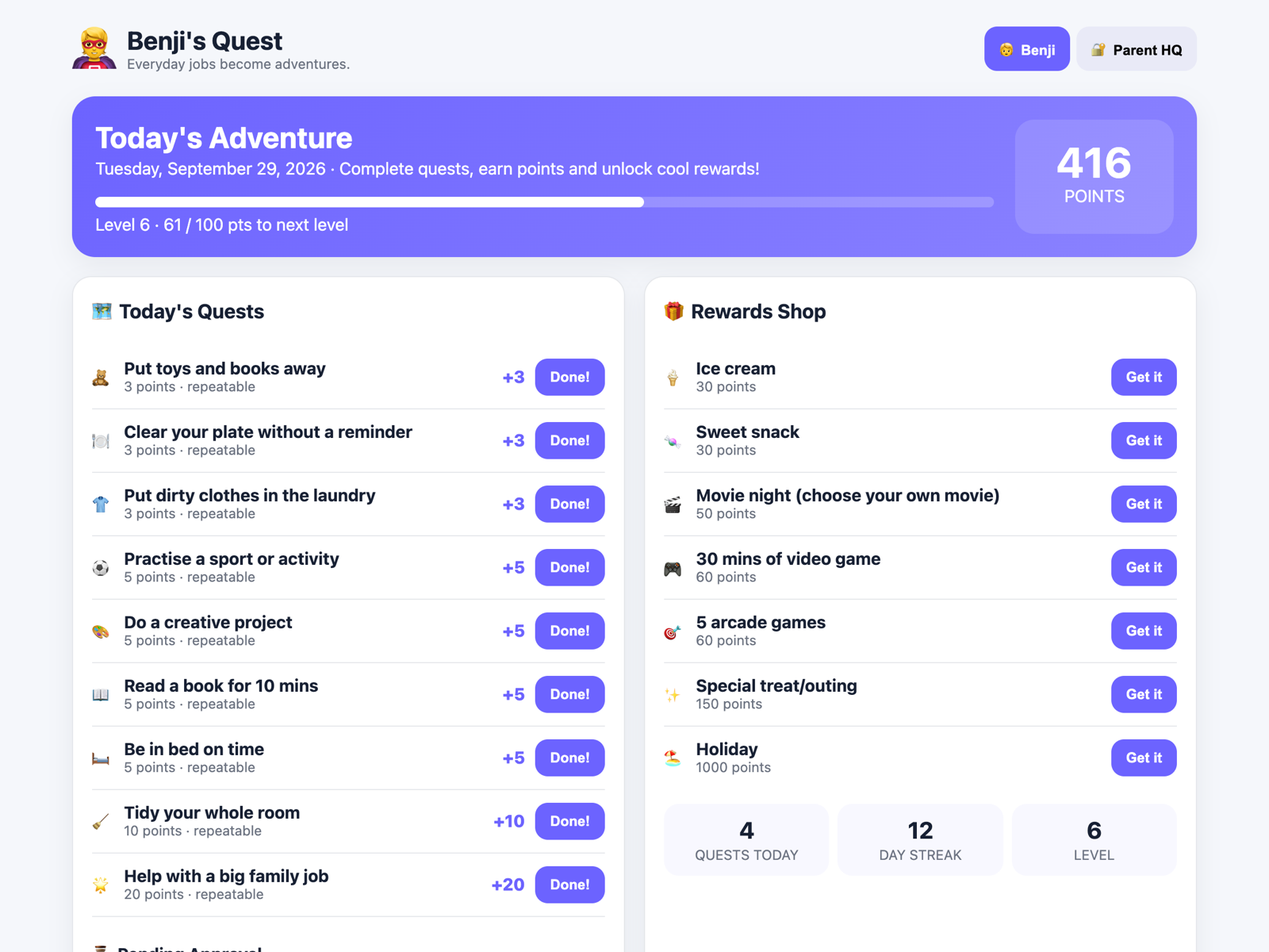
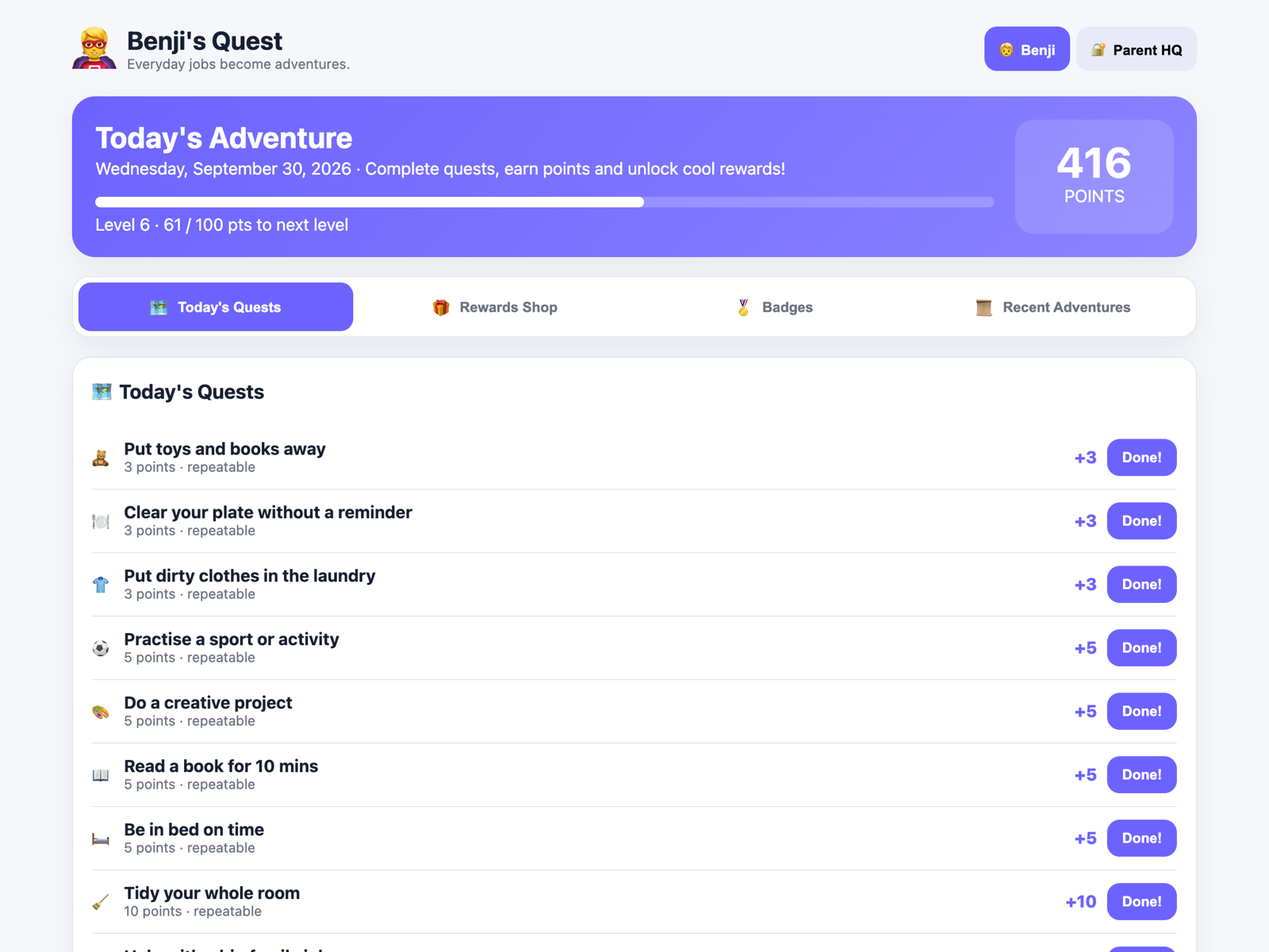
Split Parent HQ and Benji's page into tabs
Parent HQ shows one section at a time and opens on Approvals, the most
used task. Approvals gets a pending-count badge, an Approve all button and
a notice when approval is off. Benji's page gets the same tab bar and opens
on Today's Quests. The banner is compact in Parent HQ and on phones.
README screenshots updated to the new layout.

diff --git a/public/index.html b/public/index.html
@@ -1,16 +1,9 @@
 <!doctype html><html><head><meta charset="utf-8"><meta name="viewport" content="width=device-width,initial-scale=1,viewport-fit=cover"><meta name="theme-color" content="#6c63ff"><title>Benji's Quest</title><link rel="manifest" href="/manifest.webmanifest"><style>
-:root{--bg:#f5f7fb;--card:#fff;--ink:#172033;--muted:#6b7280;--line:#e5e7eb;--accent:#6c63ff;--good:#16a34a;--bad:#dc2626;--gold:#f59e0b;--shadow:0 8px 24px #17203312}*{box-sizing:border-box}body{margin:0;background:var(--bg);color:var(--ink);font-family:system-ui,-apple-system,Segoe UI,sans-serif}.app{max-width:1100px;margin:auto;padding:18px}header{display:flex;justify-content:space-between;align-items:center;gap:12px;margin-bottom:18px}.brand{display:flex;gap:10px;align-items:center}.logo{font-size:42px}.brand h1{margin:0;font-size:24px}.muted{color:var(--muted);font-size:13px}.tabs,.subtabs{display:flex;gap:6px}.tab,.subtab,button{border:0;border-radius:12px;padding:10px 14px;font-weight:700;cursor:pointer}.tab{background:#e9eaf7}.tab.active,.primary{background:var(--accent);color:#fff}.hero{background:linear-gradient(135deg,#6c63ff,#8b83ff);color:#fff;border-radius:22px;padding:22px;display:grid;grid-template-columns:1fr auto;gap:20px;box-shadow:var(--shadow);margin-bottom:18px}.hero h2{margin:0 0 4px;font-size:28px}.score{background:#ffffff22;border-radius:18px;padding:16px 24px;text-align:center;min-width:150px}.score strong{display:block;font-size:40px}.progress{height:10px;background:#ffffff35;border-radius:10px;margin:18px 0 7px;overflow:hidden}.progress i{display:block;height:100%;background:#fff;border-radius:10px}.grid{display:grid;grid-template-columns:1fr 1fr;gap:18px}.card{background:var(--card);border:1px solid var(--line);border-radius:18px;padding:18px;box-shadow:var(--shadow);margin-bottom:18px}.card h3{margin-top:0}.item,.adminitem,.detail{display:flex;align-items:center;gap:10px;padding:12px 0;border-bottom:1px solid var(--line)}.item:last-child,.adminitem:last-child{border-bottom:0}.item .grow,.adminitem .grow{flex:1}.item button{white-space:nowrap}.pill{font-weight:800;color:var(--accent)}.danger{background:#fee2e2;color:#991b1b}.good{color:var(--good)}.bad{color:var(--bad)}.stats{display:grid;grid-template-columns:repeat(3,1fr);gap:8px;margin-top:14px}.stat,.metric{background:#f8f8ff;border-radius:14px;padding:12px;text-align:center}.stat b,.metric b{display:block;font-size:22px}.empty{text-align:center;color:var(--muted);padding:18px}.hidden{display:none!important}input,select{width:100%;padding:10px;border:1px solid var(--line);border-radius:10px;margin:5px 0 10px;background:#fff}label{font-size:12px;font-weight:700}.formgrid{display:grid;grid-template-columns:2fr 1fr 1fr;gap:8px}.switch{width:52px;height:30px;border-radius:20px;background:#d1d5db;padding:3px}.switch i{display:block;width:24px;height:24px;border-radius:50%;background:#fff;transition:.2s}.switch.on{background:var(--accent)}.switch.on i{transform:translateX(22px)}.subtab{background:#eee}.subtab.active{background:var(--ink);color:#fff}.calendar{display:grid;grid-template-columns:repeat(7,1fr);gap:5px}.dow{text-align:center;font-size:11px;font-weight:800;color:var(--muted);padding:4px}.day{background:#fafafa;border:1px solid var(--line);min-height:72px;padding:6px;text-align:left}.day.today{outline:2px solid var(--accent)}.day.selected{background:#eef}.daynum{font-weight:800}.earn{color:var(--good);font-size:11px}.deduct{color:var(--bad);font-size:11px}.daynet{font-weight:800;font-size:11px}.metrics{display:grid;grid-template-columns:repeat(4,1fr);gap:8px}.barrow{display:grid;grid-template-columns:42px 1fr 45px;gap:8px;align-items:center;margin:6px 0;font-size:12px}.bar{height:12px;background:#eee;border-radius:10px;overflow:hidden}.bar i{display:block;height:100%;background:var(--accent)}.badgegrid{display:grid;grid-template-columns:repeat(auto-fit,minmax(150px,1fr));gap:10px}.badge{border:1px solid var(--line);border-radius:15px;padding:14px;text-align:center}.badge.locked{opacity:.4;filter:grayscale(1)}.badge .emoji{font-size:30px}.row{display:flex;justify-content:space-between;align-items:center;gap:10px}.toast{position:fixed;bottom:18px;left:50%;transform:translateX(-50%);background:#172033;color:#fff;padding:12px 18px;border-radius:12px;display:none;z-index:5}.toast.show{display:block}@media(max-width:760px){.grid,.hero{grid-template-columns:1fr}.score{min-width:0}.formgrid,.metrics{grid-template-columns:1fr 1fr}.app{padding:12px}}@media(max-width:480px){.formgrid,.metrics{grid-template-columns:1fr}.header{align-items:flex-start}.calendar{gap:2px}.day{min-height:58px;padding:4px}}
+:root{--bg:#f5f7fb;--card:#fff;--ink:#172033;--muted:#6b7280;--line:#e5e7eb;--accent:#6c63ff;--good:#16a34a;--bad:#dc2626;--gold:#f59e0b;--shadow:0 8px 24px #17203312}*{box-sizing:border-box}body{margin:0;background:var(--bg);color:var(--ink);font-family:system-ui,-apple-system,Segoe UI,sans-serif}.app{max-width:1100px;margin:auto;padding:18px}header{display:flex;justify-content:space-between;align-items:center;gap:12px;margin-bottom:18px}.brand{display:flex;gap:10px;align-items:center}.logo{font-size:42px}.brand h1{margin:0;font-size:24px}.muted{color:var(--muted);font-size:13px}.tabs,.subtabs{display:flex;gap:6px}.tab,.subtab,button{border:0;border-radius:12px;padding:10px 14px;font-weight:700;cursor:pointer}.tab{background:#e9eaf7}.tab.active,.primary{background:var(--accent);color:#fff}.hero{background:linear-gradient(135deg,#6c63ff,#8b83ff);color:#fff;border-radius:22px;padding:22px;display:grid;grid-template-columns:1fr auto;gap:20px;box-shadow:var(--shadow);margin-bottom:18px}.hero h2{margin:0 0 4px;font-size:28px}.score{background:#ffffff22;border-radius:18px;padding:16px 24px;text-align:center;min-width:150px}.score strong{display:block;font-size:40px}.progress{height:10px;background:#ffffff35;border-radius:10px;margin:18px 0 7px;overflow:hidden}.progress i{display:block;height:100%;background:#fff;border-radius:10px}.grid{display:grid;grid-template-columns:1fr 1fr;gap:18px}.card{background:var(--card);border:1px solid var(--line);border-radius:18px;padding:18px;box-shadow:var(--shadow);margin-bottom:18px}.card h3{margin-top:0}.item,.adminitem,.detail{display:flex;align-items:center;gap:10px;padding:12px 0;border-bottom:1px solid var(--line)}.item:last-child,.adminitem:last-child{border-bottom:0}.item .grow,.adminitem .grow,.detail .grow{flex:1}.item button{white-space:nowrap}.pill{font-weight:800;color:var(--accent)}.danger{background:#fee2e2;color:#991b1b}.good{color:var(--good)}.bad{color:var(--bad)}.stats{display:grid;grid-template-columns:repeat(3,1fr);gap:8px;margin-top:14px}.stat,.metric{background:#f8f8ff;border-radius:14px;padding:12px;text-align:center}.stat b,.metric b{display:block;font-size:22px}.empty{text-align:center;color:var(--muted);padding:18px}.hidden{display:none!important}input,select{width:100%;padding:10px;border:1px solid var(--line);border-radius:10px;margin:5px 0 10px;background:#fff}label{font-size:12px;font-weight:700}.formgrid{display:grid;grid-template-columns:2fr 1fr 1fr;gap:8px}.switch{width:52px;height:30px;border-radius:20px;background:#d1d5db;padding:3px}.switch i{display:block;width:24px;height:24px;border-radius:50%;background:#fff;transition:.2s}.switch.on{background:var(--accent)}.switch.on i{transform:translateX(22px)}.subtab{background:#eee}.subtab.active{background:var(--ink);color:#fff}.calendar{display:grid;grid-template-columns:repeat(7,1fr);gap:5px}.dow{text-align:center;font-size:11px;font-weight:800;color:var(--muted);padding:4px}.day{background:#fafafa;border:1px solid var(--line);min-height:72px;padding:6px;text-align:left}.day.today{outline:2px solid var(--accent)}.day.selected{background:#eef}.daynum{font-weight:800}.earn{color:var(--good);font-size:11px}.deduct{color:var(--bad);font-size:11px}.daynet{font-weight:800;font-size:11px}.metrics{display:grid;grid-template-columns:repeat(4,1fr);gap:8px}.barrow{display:grid;grid-template-columns:42px 1fr 45px;gap:8px;align-items:center;margin:6px 0;font-size:12px}.bar{height:12px;background:#eee;border-radius:10px;overflow:hidden}.bar i{display:block;height:100%;background:var(--accent)}.badgegrid{display:grid;grid-template-columns:repeat(auto-fit,minmax(150px,1fr));gap:10px}.badge{border:1px solid var(--line);border-radius:15px;padding:14px;text-align:center}.badge.locked{opacity:.4;filter:grayscale(1)}.badge .emoji{font-size:30px}.row{display:flex;justify-content:space-between;align-items:center;gap:10px}.toast{position:fixed;bottom:18px;left:50%;transform:translateX(-50%);background:#172033;color:#fff;padding:12px 18px;border-radius:12px;display:none;z-index:5}.toast.show{display:block}@media(max-width:760px){.grid,.hero{grid-template-columns:1fr}.score{min-width:0}.formgrid,.metrics{grid-template-columns:1fr 1fr}.app{padding:12px}}@media(max-width:480px){.formgrid,.metrics{grid-template-columns:1fr}.header{align-items:flex-start}.calendar{gap:2px}.day{min-height:58px;padding:4px}}
+.sectabs{position:sticky;top:8px;z-index:3;display:flex;gap:4px;background:var(--card);border:1px solid var(--line);border-radius:16px;padding:5px;box-shadow:var(--shadow);margin-bottom:18px}.sectab{flex:1;display:flex;align-items:center;justify-content:center;gap:6px;background:transparent;color:var(--muted);padding:10px 6px;white-space:nowrap}.sectab:hover{background:#f1f0ff;color:var(--ink)}.sectab.active{background:var(--accent);color:#fff}.secicon{font-size:16px}.count{background:var(--bad);color:#fff;border-radius:999px;font-size:11px;min-width:20px;padding:2px 6px;line-height:1.3}.notice{background:#fff7e6;border:1px solid #fde3a7;border-radius:12px;padding:10px 12px;margin-top:12px;font-size:13px;display:flex;align-items:center;justify-content:space-between;gap:10px}.notice button{background:#fff;border:1px solid #fde3a7;padding:6px 10px;font-size:12px}.secpanel .adminitem button{min-width:84px}@media(max-width:760px){.sectabs{display:grid;grid-template-columns:repeat(4,1fr);top:4px}.sectab{flex-direction:column;gap:2px;font-size:12px;padding:8px 2px;position:relative;white-space:normal;text-align:center;line-height:1.15}.secicon{font-size:20px}.count{position:absolute;top:3px;right:6px}}body.hq .hero{grid-template-columns:1fr auto;align-items:center;padding:14px 20px;border-radius:18px}body.hq .hero h2{font-size:18px;margin:0}body.hq #heroSub,body.hq .progress{display:none}body.hq #levelText{font-size:13px;opacity:.9;margin-top:2px}body.hq .score{padding:8px 16px;min-width:0;display:flex;align-items:baseline;gap:6px}body.hq .score strong{font-size:24px}body.hq .score span{font-size:12px}@media(max-width:760px){.hero{grid-template-columns:1fr auto;align-items:center;gap:12px;padding:16px}.hero h2{font-size:22px}#heroSub{font-size:13px}.progress{margin:10px 0 5px}.score{padding:10px 12px}.score strong{font-size:28px}.score span{font-size:11px}}
 body.locked .tabs,body.locked .hero,body.locked #kidView,body.locked #parentView,body:not(.locked) #lockView{display:none!important}#lockView{max-width:420px;margin:40px auto;text-align:center}
 </style></head><body><div class="app"><header><div class="brand"><div class="logo">🦸</div><div><h1>Benji's Quest</h1><div class="muted">Everyday jobs become adventures.</div></div></div><div class="tabs"><button class="tab active" id="kidTab">🧒 Benji</button><button class="tab" id="parentTab">🔐 Parent HQ</button></div></header>
 <section id="lockView" class="card"><div class="logo">🔒</div><h3>This device is locked</h3><p class="muted">Ask a parent to enter the family passcode.</p><form id="unlockForm"><input id="passcode" type="password" autocomplete="current-password" aria-label="Family passcode" required><button class="primary">Unlock</button></form></section>
 <section class="hero"><div><h2 id="heroTitle">Today's Adventure</h2><div id="heroSub">Complete quests, earn points and unlock cool rewards!</div><div class="progress"><i id="levelBar"></i></div><div id="levelText">Level 1 · 0 / 100 pts to next level</div></div><div class="score"><strong id="points">0</strong><span>POINTS</span></div></section>
-<div id="kidView"><div class="grid"><section class="card"><h3>🗺 Today's Quests</h3><div id="chores"></div></section><section class="card"><h3>🎁 Rewards Shop</h3><div id="rewards"></div><div class="stats"><div class="stat"><b id="doneToday">0</b><span class="muted">QUESTS TODAY</span></div><div class="stat"><b id="streak">0</b><span class="muted">DAY STREAK</span></div><div class="stat"><b id="level">1</b><span class="muted">LEVEL</span></div></div></section></div><section class="card"><h3>🏅 Badges</h3><div id="badges" class="badgegrid"></div></section><section class="card"><h3>📜 Recent Adventures</h3><div id="history"></div></section></div>
-<div id="parentView" class="hidden"><section class="card"><h3>📊 Quest Dashboard</h3><div class="subtabs"><button class="subtab active" data-period="week">Weekly</button><button class="subtab" data-period="month">Monthly</button><button class="subtab" data-period="year">Yearly</button></div><div id="metrics" class="metrics" style="margin-top:12px"></div><div id="periodChart" style="margin-top:15px"></div></section>
-<section class="card"><div class="row"><h3 style="margin:0">📅 Quest Calendar</h3><div><button id="prevMonth">‹</button><button id="nextMonth">›</button></div></div><h4 id="monthLabel"></h4><div id="calendar" class="calendar"></div><div id="dayDetail" class="hidden" style="margin-top:12px"></div></section>
-<div class="grid"><section class="card"><h3>🧹 Manage Chores</h3><form id="choreForm"><div class="formgrid"><div><label>Name</label><input id="cName" required maxlength="80"></div><div><label>Emoji</label><input id="cEmoji" value="⭐" maxlength="2"></div><div><label>Points</label><input id="cPoints" type="number" min="1" max="1000" value="5"></div></div><button class="primary">Add chore</button></form><hr><div id="adminChores"></div></section>
-<section class="card"><h3>🎁 Manage Rewards</h3><form id="rewardForm"><div class="formgrid"><div><label>Name</label><input id="rName" required maxlength="80"></div><div><label>Emoji</label><input id="rEmoji" value="🎁" maxlength="2"></div><div><label>Cost</label><input id="rCost" type="number" min="1" max="100000" value="30"></div></div><button class="primary">Add reward</button></form><hr><div id="adminRewards"></div></section></div>
-<div class="grid"><section class="card"><h3>⚠ Manage Penalties</h3><form id="penaltyForm"><div class="formgrid"><div><label>Name</label><input id="pName" required maxlength="80"></div><div><label>Emoji</label><input id="pEmoji" value="⚠" maxlength="2"></div><div><label>Points deducted</label><input id="pPoints" type="number" min="1" max="1000" value="5"></div></div><button class="primary">Add penalty</button></form><hr><div id="adminPenalties"></div></section>
-<section class="card"><h3>🏅 Manage Badges</h3><form id="badgeForm"><div class="formgrid"><div><label>Name</label><input id="bName" required maxlength="80"></div><div><label>Emoji</label><input id="bEmoji" value="🏅" maxlength="2"></div><div><label>Target</label><input id="bTarget" type="number" min="1" max="1000000" value="100"></div></div><label>Requirement type</label><select id="bType"><option value="points">Total points earned</option><option value="level">Level reached</option><option value="quests">Quests completed</option><option value="chore">Times a particular chore is completed</option></select><label>Description</label><input id="bDesc" maxlength="200" placeholder="e.g. Complete 20 quests"><button class="primary">Add badge</button></form><hr><div id="adminBadges"></div></section></div>
-<section class="card"><h3>⚙ Family Settings</h3><div class="row"><div><b>Require parent approval</b><div class="muted">Completed quests wait here before points are awarded.</div></div><button class="switch" id="approvalToggle"><i></i></button></div><div class="row" style="margin-top:14px"><div><b>Daily screen-time cap</b><div class="muted">Limit screen-time reward minutes per day.</div></div><select id="cap" style="width:150px;margin:0"><option value="0">No cap</option><option value="30">30 min</option><option value="45">45 min</option><option value="60">60 min</option></select></div><div class="row" style="margin-top:14px"><div><b>Lock this device</b><div class="muted">Require the family passcode again on this device.</div></div><button class="danger" id="lockDevice">Lock</button></div><h3 style="margin-top:22px">👀 Pending approvals</h3><div id="pending"></div></section>
-<section class="card"><h3>🔎 Apply Penalty</h3><div id="penaltyButtons"></div></section>
-</div></div><div id="toast" class="toast"></div><script src="/app.js"></script></body></html>
+<div id="kidView"><nav class="sectabs" role="tablist" aria-label="Benji's sections"><button class="sectab" role="tab" data-act="benjiTab" data-key="quests"><span class="secicon">🗺</span><span>Today's Quests</span></button><button class="sectab" role="tab" data-act="benjiTab" data-key="shop"><span class="secicon">🎁</span><span>Rewards Shop</span></button><button class="sectab" role="tab" data-act="benjiTab" data-key="badges"><span class="secicon">🏅</span><span>Badges</span></button><button class="sectab" role="tab" data-act="benjiTab" data-key="history"><span class="secicon">📜</span><span>Recent Adventures</span></button></nav><section class="card secpanel" data-panel="quests"><h3>🗺 Today's Quests</h3><div id="chores"></div><div class="stats"><div class="stat"><b id="doneToday">0</b><span class="muted">QUESTS TODAY</span></div><div class="stat"><b id="streak">0</b><span class="muted">DAY STREAK</span></div><div class="stat"><b id="level">1</b><span class="muted">LEVEL</span></div></div></section><section class="card secpanel" data-panel="shop"><h3>🎁 Rewards Shop</h3><div id="rewards"></div></section><section class="card secpanel" data-panel="badges"><h3>🏅 Badges</h3><div id="badges" class="badgegrid"></div></section><section class="card secpanel" data-panel="history"><h3>📜 Recent Adventures</h3><div id="history"></div></section></div>
+<div id="parentView" class="hidden"><nav class="sectabs" role="tablist" aria-label="Parent HQ sections"><button class="sectab" role="tab" data-act="hqTab" data-key="approvals"><span class="secicon">✅</span><span>Approvals</span><span id="pendingCount" class="count hidden"></span></button><button class="sectab" role="tab" data-act="hqTab" data-key="dashboard"><span class="secicon">📊</span><span>Dashboard</span></button><button class="sectab" role="tab" data-act="hqTab" data-key="calendar"><span class="secicon">📅</span><span>Calendar</span></button><button class="sectab" role="tab" data-act="hqTab" data-key="chores"><span class="secicon">🧹</span><span>Chores</span></button><button class="sectab" role="tab" data-act="hqTab" data-key="rewards"><span class="secicon">🎁</span><span>Rewards</span></button><button class="sectab" role="tab" data-act="hqTab" data-key="penalties"><span class="secicon">⚠</span><span>Penalties</span></button><button class="sectab" role="tab" data-act="hqTab" data-key="badges"><span class="secicon">🏅</span><span>Badges</span></button><button class="sectab" role="tab" data-act="hqTab" data-key="settings"><span class="secicon">⚙</span><span>Settings</span></button></nav><section class="card secpanel" data-panel="approvals"><div class="row"><div><h3 style="margin:0">✅ Approvals</h3><div class="muted">Quests Benji has finished. Approve to award the points.</div></div><button class="primary hidden" id="approveAll" data-act="approveAll">Approve all</button></div><div id="approvalOff" class="notice hidden">Approval is off, so finished quests award points straight away. <button data-act="hqTab" data-key="settings">Change in Settings</button></div><div id="pending" style="margin-top:8px"></div></section><section class="card secpanel" data-panel="dashboard"><h3>📊 Quest Dashboard</h3><div class="subtabs"><button class="subtab active" data-period="week">Weekly</button><button class="subtab" data-period="month">Monthly</button><button class="subtab" data-period="year">Yearly</button></div><div id="metrics" class="metrics" style="margin-top:12px"></div><div id="periodChart" style="margin-top:15px"></div></section><section class="card secpanel" data-panel="calendar"><div class="row"><h3 style="margin:0">📅 Quest Calendar</h3><div><button id="prevMonth">‹</button><button id="nextMonth">›</button></div></div><h4 id="monthLabel"></h4><div id="calendar" class="calendar"></div><div id="dayDetail" class="hidden" style="margin-top:12px"></div></section><section class="card secpanel" data-panel="chores"><h3>🧹 Manage Chores</h3><form id="choreForm"><div class="formgrid"><div><label>Name</label><input id="cName" required maxlength="80"></div><div><label>Emoji</label><input id="cEmoji" value="⭐" maxlength="2"></div><div><label>Points</label><input id="cPoints" type="number" min="1" max="1000" value="5"></div></div><button class="primary">Add chore</button></form><hr><div id="adminChores"></div></section><section class="card secpanel" data-panel="rewards"><h3>🎁 Manage Rewards</h3><form id="rewardForm"><div class="formgrid"><div><label>Name</label><input id="rName" required maxlength="80"></div><div><label>Emoji</label><input id="rEmoji" value="🎁" maxlength="2"></div><div><label>Cost</label><input id="rCost" type="number" min="1" max="100000" value="30"></div></div><button class="primary">Add reward</button></form><hr><div id="adminRewards"></div></section><section class="card secpanel" data-panel="penalties"><h3>⚠ Apply a penalty</h3><p class="muted" style="margin-top:-6px">Tap one to deduct its points.</p><div id="penaltyButtons"></div></section><section class="card secpanel" data-panel="penalties"><h3>⚠ Manage Penalties</h3><form id="penaltyForm"><div class="formgrid"><div><label>Name</label><input id="pName" required maxlength="80"></div><div><label>Emoji</label><input id="pEmoji" value="⚠" maxlength="2"></div><div><label>Points deducted</label><input id="pPoints" type="number" min="1" max="1000" value="5"></div></div><button class="primary">Add penalty</button></form><hr><div id="adminPenalties"></div></section><section class="card secpanel" data-panel="badges"><h3>🏅 Manage Badges</h3><form id="badgeForm"><div class="formgrid"><div><label>Name</label><input id="bName" required maxlength="80"></div><div><label>Emoji</label><input id="bEmoji" value="🏅" maxlength="2"></div><div><label>Target</label><input id="bTarget" type="number" min="1" max="1000000" value="100"></div></div><label>Requirement type</label><select id="bType"><option value="points">Total points earned</option><option value="level">Level reached</option><option value="quests">Quests completed</option><option value="chore">Times a particular chore is completed</option></select><label>Description</label><input id="bDesc" maxlength="200" placeholder="e.g. Complete 20 quests"><button class="primary">Add badge</button></form><hr><div id="adminBadges"></div></section><section class="card secpanel" data-panel="settings"><h3>⚙ Family Settings</h3><div class="row"><div><b>Require parent approval</b><div class="muted">Completed quests wait here before points are awarded.</div></div><button class="switch" id="approvalToggle"><i></i></button></div><div class="row" style="margin-top:14px"><div><b>Daily screen-time cap</b><div class="muted">Limit screen-time reward minutes per day.</div></div><select id="cap" style="width:150px;margin:0"><option value="0">No cap</option><option value="30">30 min</option><option value="45">45 min</option><option value="60">60 min</option></select></div><div class="row" style="margin-top:14px"><div><b>Lock this device</b><div class="muted">Require the family passcode again on this device.</div></div><button class="danger" id="lockDevice">Lock</button></div></section></div></div><div id="toast" class="toast"></div><script src="/app.js"></script></body></html>

diff --git a/public/app.js b/public/app.js
@@ -1,6 +1,6 @@
-let state=null,period='week',calDate=new Date(),selectedDate=null;const $=id=>document.getElementById(id);function toast(t){$('toast').textContent=t;$('toast').classList.add('show');setTimeout(()=>$('toast').classList.remove('show'),2200)}function esc(s){return String(s).replace(/[&<>'"]/g,m=>({'&':'&amp;','<':'&lt;','>':'&gt;',"'":'&#39;','"':'&quot;'}[m]))}function today(){return new Date().toLocaleDateString('en-CA')}async function api(path,body,method){const r=await fetch(path,{method:method||(body?'POST':'GET'),headers:body?{'Content-Type':'application/json'}:undefined,body:body?JSON.stringify(body):undefined});const d=await r.json();if(!r.ok){toast(d.error||'Something went wrong');if(r.status===401)showKid();load();throw Error(d.error)}state=d.state||d;render();return d}async function admin(){await api('/api/admin',{chores:state.chores,rewards:state.rewards,penalties:state.penalties,badges:state.badges},'PUT')}async function settings(body){await api('/api/settings',body,'PUT')}async function load(){try{const r=await fetch('/api/state');if(r.status===401){lock();return}const d=await r.json();state=d.state;document.body.classList.remove('locked');render()}catch(e){toast('Could not connect to cloud')}}function lock(){showKid();document.body.classList.add('locked');$('passcode').focus()}
+let state=null,period='week',tabs={kidView:'quests',parentView:'approvals'},calDate=new Date(),selectedDate=null;const $=id=>document.getElementById(id);function toast(t){$('toast').textContent=t;$('toast').classList.add('show');setTimeout(()=>$('toast').classList.remove('show'),2200)}function esc(s){return String(s).replace(/[&<>'"]/g,m=>({'&':'&amp;','<':'&lt;','>':'&gt;',"'":'&#39;','"':'&quot;'}[m]))}function today(){return new Date().toLocaleDateString('en-CA')}async function api(path,body,method){const r=await fetch(path,{method:method||(body?'POST':'GET'),headers:body?{'Content-Type':'application/json'}:undefined,body:body?JSON.stringify(body):undefined});const d=await r.json();if(!r.ok){toast(d.error||'Something went wrong');if(r.status===401)showKid();load();throw Error(d.error)}state=d.state||d;render();return d}async function admin(){await api('/api/admin',{chores:state.chores,rewards:state.rewards,penalties:state.penalties,badges:state.badges},'PUT')}async function settings(body){await api('/api/settings',body,'PUT')}async function load(){try{const r=await fetch('/api/state');if(r.status===401){lock();return}const d=await r.json();state=d.state;document.body.classList.remove('locked');render()}catch(e){toast('Could not connect to cloud')}}function lock(){showKid();document.body.classList.add('locked');$('passcode').focus()}
 function level(){return Math.max(1,Math.floor(state.totalEarned/100)+1)}function badgeUnlocked(b){if(b.type==='points')return state.totalEarned>=b.target;if(b.type==='level')return level()>=b.target;if(b.type==='quests')return state.history.filter(x=>x.kind==='chore').length+(state.archivedQuests||0)>=b.target;if(b.type==='chore')return state.history.filter(x=>x.kind==='chore'&&x.text===b.choreName).length>=b.target;return false}
-function render(){if(!state)return;$('points').textContent=state.points;const lv=level(),prog=state.totalEarned%100;$('level').textContent=lv;$('levelText').textContent=`Level ${lv} · ${prog} / 100 pts to next level`;$('levelBar').style.width=prog+'%';$('heroTitle').textContent="Today's Adventure";$('heroSub').textContent=`${new Date().toLocaleDateString(undefined,{weekday:'long',day:'numeric',month:'long',year:'numeric'})} · Complete quests, earn points and unlock cool rewards!`;renderKid();renderAdmin();renderSettings();renderPending();renderCalendar();renderDashboard()}
+function render(){if(!state)return;$('points').textContent=state.points;const lv=level(),prog=state.totalEarned%100;$('level').textContent=lv;$('levelText').textContent=`Level ${lv} · ${prog} / 100 pts to next level`;$('levelBar').style.width=prog+'%';$('heroTitle').textContent=document.body.classList.contains('hq')?"Benji's progress":"Today's Adventure";$('heroSub').textContent=`${new Date().toLocaleDateString(undefined,{weekday:'long',day:'numeric',month:'long',year:'numeric'})} · Complete quests, earn points and unlock cool rewards!`;renderKid();renderAdmin();renderSettings();renderPending();renderCalendar();renderDashboard()}
 
 function renderKid(){
   const d=today(),done=state.history.filter(h=>h.kind==='chore'&&h.date===d).length;
@@ -31,16 +31,18 @@ function renderAdmin(){
 }
 
 function renderSettings(){$('approvalToggle').classList.toggle('on',!!state.settings.approval);$('cap').value=state.settings.cap||0}
-function renderPending(){$('pending').innerHTML=state.pending.length?state.pending.map(p=>`<div class="adminitem"><span>${esc(p.emoji)}</span><span class="grow"><b>${esc(p.name)}</b><div class="muted">+${p.points} · ${p.date}</div></span><button class="primary" data-act="approve" data-key="${esc(p.id)}">Approve</button><button class="danger" data-act="reject" data-key="${esc(p.id)}">Reject</button></div>`).join(''):'<div class="empty">Nothing waiting for approval.</div>'}
+function renderPending(){const n=state.pending.length;$('pendingCount').textContent=n;$('pendingCount').classList.toggle('hidden',!n);$('approveAll').classList.toggle('hidden',n<2);$('approvalOff').classList.toggle('hidden',!!state.settings.approval||n>0);$('pending').innerHTML=n?state.pending.map(p=>`<div class="adminitem"><span>${esc(p.emoji)}</span><span class="grow"><b>${esc(p.name)}</b><div class="muted">+${p.points} · ${p.date}</div></span><button class="primary" data-act="approve" data-key="${esc(p.id)}">Approve</button><button class="danger" data-act="reject" data-key="${esc(p.id)}">Reject</button></div>`).join(''):'<div class="empty">🎉 All caught up. Nothing waiting for approval.</div>'}
+// Each view shows one section at a time. Defaults: Today's Quests for Benji, Approvals for Parent HQ (used most).
+function benjiTab(k){tabs.kidView=k;renderTabs()}function hqTab(k){tabs.parentView=k;renderTabs()}function renderTabs(){for(const v in tabs){const k=tabs[v];$(v).querySelectorAll('.sectab').forEach(b=>{const on=b.dataset.key===k;b.classList.toggle('active',on);b.setAttribute('aria-selected',on)});$(v).querySelectorAll('.secpanel').forEach(p=>p.classList.toggle('hidden',p.dataset.panel!==k))}}
 function renderCalendar(){const y=calDate.getFullYear(),m=calDate.getMonth(),first=new Date(y,m,1),start=(first.getDay()+6)%7,days=new Date(y,m+1,0).getDate();$('monthLabel').textContent=calDate.toLocaleString(undefined,{month:'long',year:'numeric'});let html=['Mon','Tue','Wed','Thu','Fri','Sat','Sun'].map(x=>`<div class="dow">${x}</div>`).join('');for(let i=0;i<42;i++){let n=i-start+1;if(n<1||n>days){html+='<div></div>';continue}let dt=new Date(y,m,n),k=dt.toLocaleDateString('en-CA'),arr=state.history.filter(h=>h.date===k),e=arr.filter(h=>h.amount>0).reduce((a,h)=>a+h.amount,0),d=arr.filter(h=>h.amount<0).reduce((a,h)=>a+Math.abs(h.amount),0);html+=`<button class="day ${k===today()?'today':''} ${k===selectedDate?'selected':''}" data-act="selectDay" data-key="${esc(k)}"><div class="daynum">${n}</div>${e?`<div class="earn">+${e}</div>`:''}${d?`<div class="deduct">−${d}</div>`:''}<div class="daynet">${e-d?`${e-d>0?'+':''}${e-d}`:''}</div></button>`}$('calendar').innerHTML=html;renderDay()}
 function selectDay(k){selectedDate=k;renderCalendar()}function renderDay(){const box=$('dayDetail');if(!selectedDate){box.classList.add('hidden');return}const arr=state.history.filter(h=>h.date===selectedDate),e=arr.filter(h=>h.amount>0).reduce((a,h)=>a+h.amount,0),d=arr.filter(h=>h.amount<0).reduce((a,h)=>a+Math.abs(h.amount),0);box.classList.remove('hidden');box.innerHTML=`<b>${new Date(selectedDate+'T12:00:00').toLocaleDateString(undefined,{weekday:'long',day:'numeric',month:'long',year:'numeric'})}</b><div class="muted">+${e} earned · −${d} deducted · ${e-d>=0?'+':''}${e-d} net</div>${arr.map(h=>`<div class="detail"><span class="grow">${esc(h.text)}</span><b class="${h.amount>=0?'good':'bad'}">${h.amount>0?'+':''}${h.amount}</b></div>`).join('')||'<div class="empty">No recorded activity.</div>'}`}
 function renderDashboard(){const now=new Date();let start=new Date(now);if(period==='week'){const day=(now.getDay()+6)%7;start.setDate(now.getDate()-day)}else if(period==='month')start=new Date(now.getFullYear(),now.getMonth(),1);else start=new Date(now.getFullYear(),0,1);const sk=start.toLocaleDateString('en-CA'),ek=now.toLocaleDateString('en-CA'),arr=state.history.filter(h=>h.date>=sk&&h.date<=ek),earned=arr.filter(h=>h.amount>0).reduce((a,h)=>a+h.amount,0),ded=arr.filter(h=>h.amount<0).reduce((a,h)=>a+Math.abs(h.amount),0),q=arr.filter(h=>h.kind==='chore').length,p=arr.filter(h=>h.kind==='penalty').length;$('metrics').innerHTML=`<div class="metric"><b>${earned}</b><span>POINTS EARNED</span></div><div class="metric"><b>${ded}</b><span>POINTS DEDUCTED</span></div><div class="metric"><b>${earned-ded}</b><span>NET POINTS</span></div><div class="metric"><b>${q}</b><span>QUESTS COMPLETED</span></div>`;let groups=[];if(period==='year'){for(let i=0;i<12;i++)groups.push([`${now.getFullYear()}-${String(i+1).padStart(2,'0')}`,new Date(now.getFullYear(),i,1).toLocaleString(undefined,{month:'short'})])}else{let count=period==='week'?7:new Date(now.getFullYear(),now.getMonth()+1,0).getDate();for(let i=0;i<count;i++){let dt=new Date(start);dt.setDate(start.getDate()+i);groups.push([dt.toLocaleDateString('en-CA'),period==='week'?dt.toLocaleString(undefined,{weekday:'short'}):String(dt.getDate())])}}let vals=groups.map(g=>{let a=arr.filter(h=>period==='year'?h.date.startsWith(g[0]):h.date===g[0]);return [g[1],a.reduce((z,h)=>z+h.amount,0)]});let max=Math.max(1,...vals.map(v=>Math.abs(v[1])));$('periodChart').innerHTML=vals.map(v=>`<div class="barrow"><span>${v[0]}</span><div class="bar"><i style="width:${Math.min(100,Math.abs(v[1])/max*100)}%"></i></div><b>${v[1]>=0?'+':''}${v[1]}</b></div>`).join('')+`<div class="muted">${p} penalties recorded in this period.</div>`}
-async function completeQuest(id){await api('/api/action',{action:'complete',id})}async function approve(id){await api('/api/action',{action:'approve',pendingId:id})}async function reject(id){await api('/api/action',{action:'reject',pendingId:id})}async function redeem(id){await api('/api/action',{action:'redeem',id})}
+async function completeQuest(id){await api('/api/action',{action:'complete',id})}async function approve(id){await api('/api/action',{action:'approve',pendingId:id})}async function approveAll(){const ids=state.pending.map(p=>p.id);if(!confirm(`Approve all ${ids.length} quests?`))return;for(const id of ids)await approve(id)}async function reject(id){await api('/api/action',{action:'reject',pendingId:id})}async function redeem(id){await api('/api/action',{action:'redeem',id})}
 async function penalty(id){if(confirm('Deduct this penalty?'))await api('/api/action',{action:'penalty',id})}
 function editChore(id){const c=state.chores.find(x=>x.id===id),n=prompt('Chore name',c.name),p=prompt('Points',c.points);if(n!==null&&p!==null){c.name=n;c.points=+p;admin()}}function editReward(id){const r=state.rewards.find(x=>x.id===id),n=prompt('Reward name',r.name),c=prompt('Cost',r.cost);if(n!==null&&c!==null){r.name=n;r.cost=+c;admin()}}function editPenalty(id){const p=state.penalties.find(x=>x.id===id),n=prompt('Penalty name',p.name),v=prompt('Points deducted',Math.abs(p.points));if(n!==null&&v!==null){p.name=n;p.points=-Math.abs(+v);admin()}}function editBadge(id){const b=state.badges.find(x=>x.id===id),n=prompt('Badge name',b.name),t=prompt('Target',b.target),d=prompt('Description',b.description);if(n!==null&&t!==null){b.name=n;b.target=+t;if(d!==null)b.description=d;admin()}}async function delChore(id){if(confirm('Delete this chore?')){state.chores=state.chores.filter(x=>x.id!==id);await admin()}}async function delReward(id){if(confirm('Delete this reward?')){state.rewards=state.rewards.filter(x=>x.id!==id);await admin()}}async function delPenalty(id){if(confirm('Delete this penalty?')){state.penalties=state.penalties.filter(x=>x.id!==id);await admin()}}async function delBadge(id){if(confirm('Delete this badge?')){state.badges=state.badges.filter(x=>x.id!==id);await admin()}}
 $('choreForm').onsubmit=async e=>{e.preventDefault();state.chores.push({id:Date.now(),name:$('cName').value.trim(),emoji:$('cEmoji').value||'⭐',points:+$('cPoints').value,difficulty:'Medium'});await admin();e.target.reset()};$('rewardForm').onsubmit=async e=>{e.preventDefault();const name=$('rName').value.trim(),lower=name.toLowerCase();const type=lower.includes('game')||lower.includes('screen')?'screen':lower.includes('sweet')?'sweet':'other';const mins=type==='screen'?parseInt((name.match(/\d+/)||['0'])[0]):0;state.rewards.push({id:Date.now(),name,emoji:$('rEmoji').value||'🎁',cost:+$('rCost').value,type,minutes:mins});await admin();e.target.reset()};$('penaltyForm').onsubmit=async e=>{e.preventDefault();state.penalties.push({id:Date.now(),name:$('pName').value.trim(),emoji:$('pEmoji').value||'⚠',points:-Math.abs(+$('pPoints').value)});await admin();e.target.reset()};$('badgeForm').onsubmit=async e=>{e.preventDefault();state.badges.push({id:Date.now(),name:$('bName').value.trim(),emoji:$('bEmoji').value||'🏅',description:$('bDesc').value.trim(),type:$('bType').value,target:+$('bTarget').value});await admin();e.target.reset()};
-function showParent(){$('kidView').classList.add('hidden');$('parentView').classList.remove('hidden');$('kidTab').classList.remove('active');$('parentTab').classList.add('active')}function showKid(){$('kidView').classList.remove('hidden');$('parentView').classList.add('hidden');$('kidTab').classList.add('active');$('parentTab').classList.remove('active')}const EMPTY_POST={method:'POST',headers:{'Content-Type':'application/json'},body:'{}'};function logout(){fetch('/api/parent-logout',EMPTY_POST).catch(()=>{})}
+function showParent(){document.body.classList.add('hq');render();hqTab('approvals');scrollTo(0,0);$('kidView').classList.add('hidden');$('parentView').classList.remove('hidden');$('kidTab').classList.remove('active');$('parentTab').classList.add('active')}function showKid(){document.body.classList.remove('hq');render();benjiTab('quests');$('kidView').classList.remove('hidden');$('parentView').classList.add('hidden');$('kidTab').classList.add('active');$('parentTab').classList.remove('active')}const EMPTY_POST={method:'POST',headers:{'Content-Type':'application/json'},body:'{}'};function logout(){fetch('/api/parent-logout',EMPTY_POST).catch(()=>{})}
 $('parentTab').onclick=async()=>{const pin=prompt('Parent PIN');if(pin===null)return;const r=await fetch('/api/parent-auth',{method:'POST',headers:{'Content-Type':'application/json'},body:JSON.stringify({pin})});if(r.ok)showParent();else{const d=await r.json().catch(()=>({}));toast(r.status===401?'Wrong PIN':d.error||'Could not sign in')}};$('kidTab').onclick=()=>{showKid();logout()};$('unlockForm').onsubmit=async e=>{e.preventDefault();const r=await fetch('/api/family-auth',{method:'POST',headers:{'Content-Type':'application/json'},body:JSON.stringify({pin:$('passcode').value})});if(r.ok){e.target.reset();load()}else{const d=await r.json().catch(()=>({}));toast(r.status===401?'Wrong passcode':d.error||'Could not unlock')}};$('lockDevice').onclick=async()=>{if(!confirm('Lock this device? The family passcode will be needed to open the app again.'))return;await Promise.all(['/api/family-logout','/api/parent-logout'].map(u=>fetch(u,EMPTY_POST)));state=null;lock()};$('approvalToggle').onclick=()=>settings({approval:!state.settings.approval});$('cap').onchange=e=>settings({cap:+e.target.value});document.querySelectorAll('.subtab').forEach(b=>b.onclick=()=>{document.querySelectorAll('.subtab').forEach(x=>x.classList.remove('active'));b.classList.add('active');period=b.dataset.period;renderDashboard()});$('prevMonth').onclick=()=>{calDate.setMonth(calDate.getMonth()-1);renderCalendar()};$('nextMonth').onclick=()=>{calDate.setMonth(calDate.getMonth()+1);renderCalendar()};
 // One delegated listener for buttons rendered from templates (no inline handlers, so the CSP can forbid inline script).
-const ACTIONS={approve,completeQuest,delBadge,delChore,delPenalty,delReward,editBadge,editChore,editPenalty,editReward,penalty,redeem,reject,selectDay};document.addEventListener('click',e=>{const b=e.target.closest('[data-act]');if(b&&Object.hasOwn(ACTIONS,b.dataset.act))ACTIONS[b.dataset.act](b.dataset.key??Number(b.dataset.id))});
-logout();load();
+const ACTIONS={approve,approveAll,benjiTab,completeQuest,delBadge,delChore,delPenalty,delReward,editBadge,editChore,editPenalty,editReward,hqTab,penalty,redeem,reject,selectDay};document.addEventListener('click',e=>{const b=e.target.closest('[data-act]');if(b&&Object.hasOwn(ACTIONS,b.dataset.act))ACTIONS[b.dataset.act](b.dataset.key??Number(b.dataset.id))});
+renderTabs();logout();load();

diff --git a/README.md b/README.md
@@ -2,20 +2,20 @@
 
 **Everyday jobs become adventures.** Benji's Quest is a small family web app that turns chores into quests. Kids tick off quests to earn points, level up, keep a daily streak, unlock badges and spend points in a rewards shop. Parents manage everything from a PIN-protected Parent HQ.
 
-![Kid view: today's quests, rewards shop, points and level](docs/screenshots/kid.png)
+![Kid view: the Today's Quests tab with points, level and progress](docs/screenshots/kid.png)
 
 ## Features
 
 - **Quests and points:** each chore is worth points, and points build up into levels and daily streaks.
 - **Rewards shop:** kids spend points on treats, outings or screen time, with an optional daily screen-time cap.
 - **Badges:** milestones for points earned, level reached, quests completed, or a particular chore done a number of times.
-- **Parent HQ:** add and edit chores, rewards, penalties and badges; approve completed quests before points are awarded; apply penalties.
+- **Parent HQ:** one tab per job, opening on Approvals so completed quests can be approved before points are awarded; add and edit chores, rewards, penalties and badges; apply penalties.
 - **Dashboard and calendar:** weekly, monthly and yearly totals, plus a day-by-day history.
 - **Works on phones:** responsive layout and installable as a home-screen app. One shared family state syncs across every device.
 
 | Parent HQ | Mobile |
 |---|---|
-| <img src="docs/screenshots/parent.png" alt="Parent HQ dashboard with monthly points" width="560"> | <img src="docs/screenshots/mobile.png" alt="Kid view on a phone" width="220"> |
+| <img src="docs/screenshots/parent.png" alt="Parent HQ tabs with the Dashboard tab showing monthly points" width="560"> | <img src="docs/screenshots/mobile.png" alt="Kid view on a phone, opening on Today's Quests" width="220"> |
 
 ## How it's built
 
